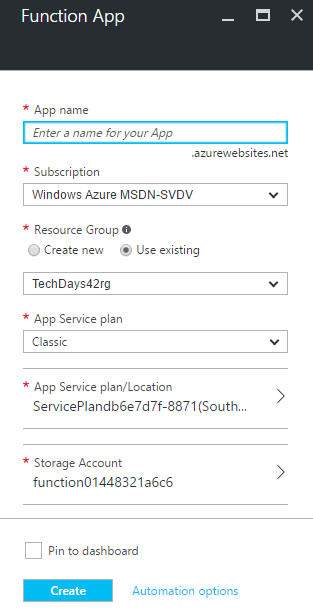
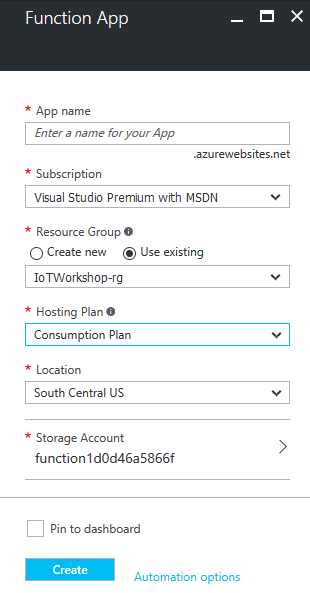
function text changed. but function creation fails for storage. Had to create storage by hand first

diff --git a/Azure.md b/Azure.md
@@ -247,37 +247,25 @@ Follow these steps to create an Azure Function App. An Azure function is actuall
 
 7. Enter a unique App name eg. `IoTWorkshop-fa`. A green sign will be shown if the name is unique
 8. The Resource Group eg. `IoTWorkshop-rg` is already filled in
-9. An App Service plan is the container for your app. The already created App Service Plan will probably not fit our needs. We create a new one
-10. Open the App Service plan blade and select `Create New`
-
-    ![alt tag](img/azure-asp-create.png)
-
-11. Enter a unique App name eg. `IoTWorkshop-asp`. A green sign will be shown if the name is unique
-12. Select `West Europe` for the location
-
-    ![alt tag](img/azure-asp-new.png)
-
-13. The Pricing tier will be left unaltered
-14. Select `Ok`
-15. Our new App Service plan is now added to the Azure Function App
-16. We also want to give the Storage Account a more meaningful name. In this storage account, the function source code etc. will be stored
-17. Open de Storage Account blade and select `Create New`
+9. The hosting plan is set to 'Consumption plan' by default. This means that you will only be charged for the number of times a function is executed and the resources needed for that execution. *Note: Every month, the first one million requests and and 400.000 GBs are [free of charge](https://azure.microsoft.com/en-us/pricing/details/functions/)*
+10. Select `West Europe` for the location
+11. We also want to give the Storage Account a more meaningful name. In this storage account, the function source code etc. will be stored
+12. Open de Storage Account blade and select `Create New`
 
     ![alt tag](img/azure-storage-account-create.png)
 
-18. Enter a unique App name eg. `techdays42storage`. A green sign will be shown if the name is unique *Note: Storage account names must be all lower case!.*
+13. Enter a unique App name eg. `iotworkshopstorage`. A green sign will be shown if the name is unique *Note: Storage account names must be all lower case!.*
 
     ![alt tag](img/azure-storage-account-new.png)
 
-19. Select `Ok`
-20. Our new Storage Account is now added to the Azure Function App
+14. Select `Ok`
+15. Our new Storage Account is now added to the Azure Function App
 
     ![alt tag](img/azure-function-app-create.png)
 
-21. Select `Create` 
+16. Select `Create` 
 
 The portal will start creating the Function app. Once it is created, a notification is shown.
-
 
 ## Create an Azure Function triggered by Event Hub
 
@@ -288,7 +276,7 @@ Follow these steps to create an Azure Function, triggered by the Event Hub, insi
     ![alt tag](img/azure-resource-groups.png)
 
 2. Select the ResourceGroup `IoTWorkshop-rg`. It will open a new blade with all resources in this group
-3. Select the Azure Function App `TechDays42fa`
+3. Select the Azure Function App `IoTWorkshop-fa`
 4. If the Function App is not shown yet, `refresh` the list. The Function app resource will be shown in a new blade
 
     ![alt tag](img/azure-portal-refresh.png)
